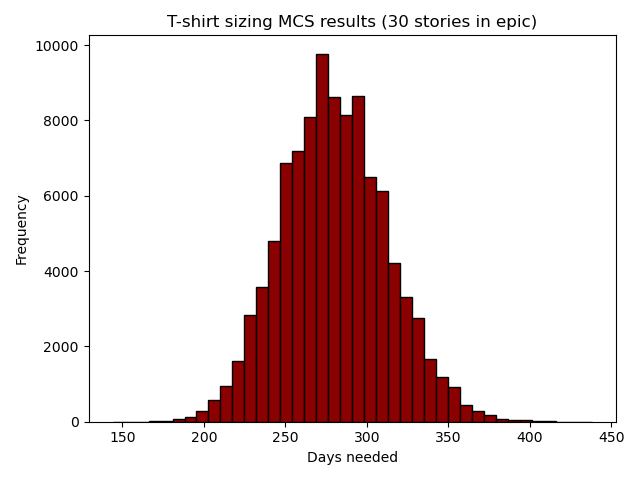
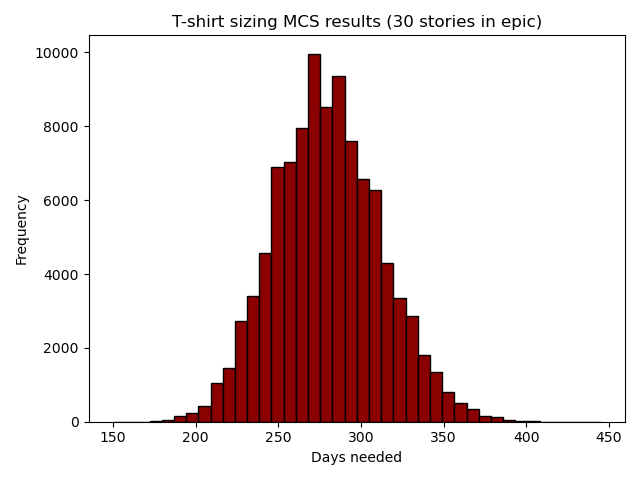
update tshirt x axis

diff --git a/t-shirt-estimation.py b/t-shirt-estimation.py
@@ -48,7 +48,7 @@ def plot_with_risk(results: np.ndarray, save_path="t_shirt_estimation_results_wi
                 ha="center", va="top", fontsize=9, bbox=dict(facecolor="white", alpha=0.75, edgecolor="none"))
 
     ax.set_title("T-shirt Estimation MCS results (with risk percentiles)")
-    ax.set_xlabel("Points completed")
+    ax.set_xlabel("Days needed")
     ax.set_ylabel("Frequency")
     plt.tight_layout()
     plt.savefig(save_path)
